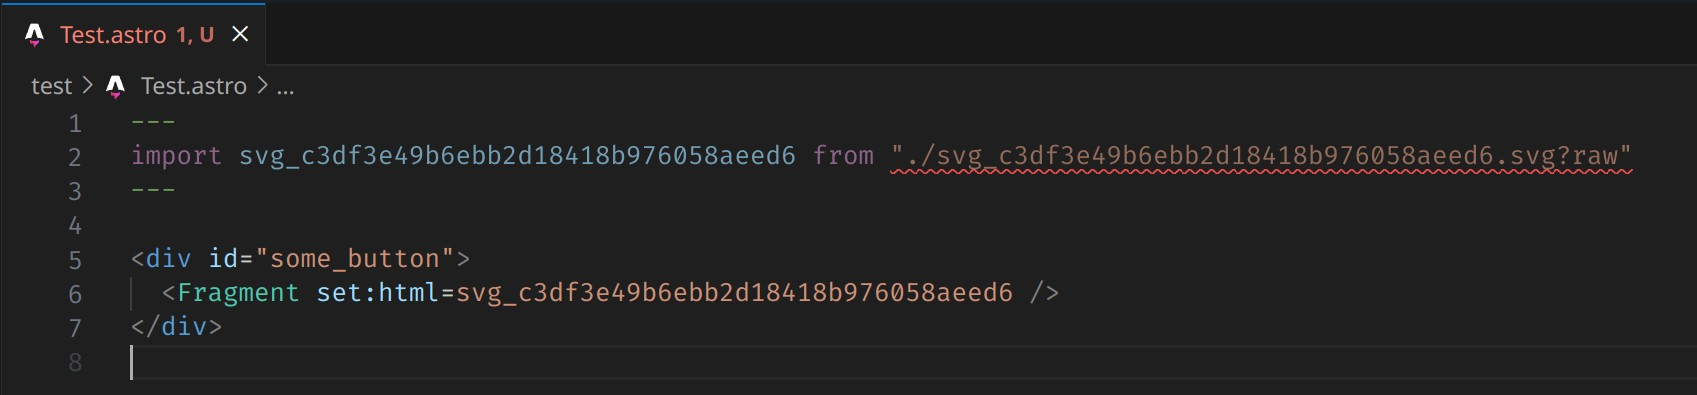
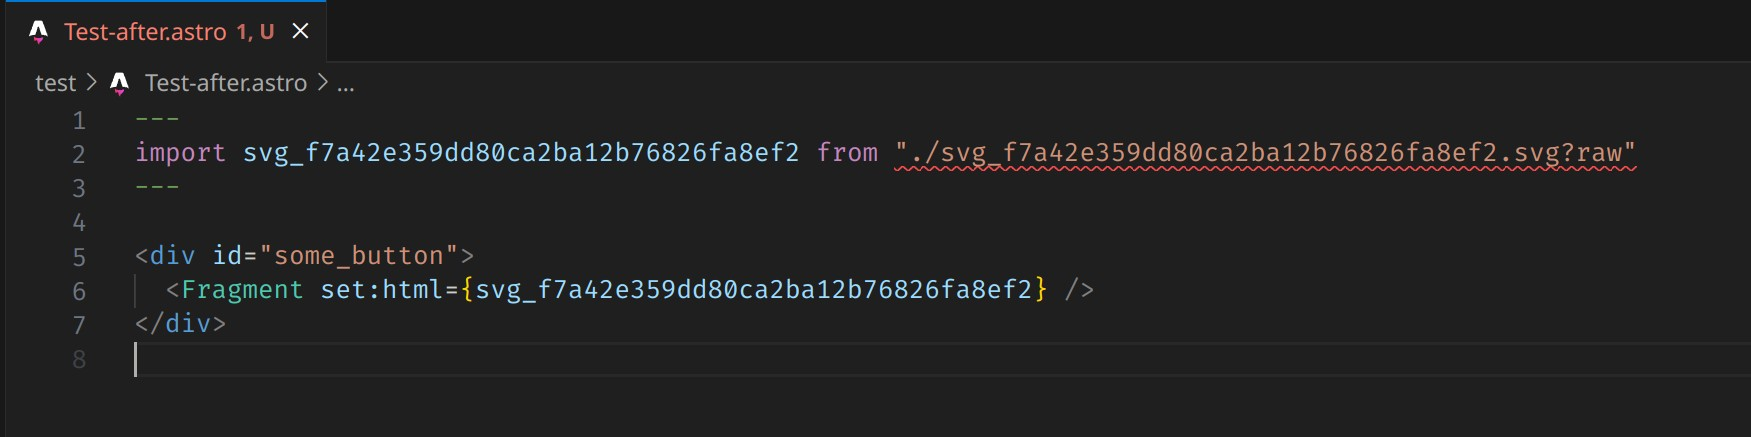
fix: fix svg insertion in Astro

diff --git a/src/extension.ts b/src/extension.ts
@@ -70,7 +70,7 @@ async function importExtractedSvg(selection: vscode.Selection, varEditor: vscode
           : 0
 
       edit.insert(new Position(line, 0), `import ${fileName} from "./${fileName}.svg?raw"\n`)
-      edit.insert(selection.start, `<Fragment set:html=${fileName} />\n`)
+      edit.insert(selection.start, `<Fragment set:html={${fileName}} />\n`)
     })
   } else {
     await varEditor.edit((edit) => {

diff --git a/README.md b/README.md
@@ -30,7 +30,7 @@ import svg_c3df3e49b6ebb2d18418b976058aeed6 from "./svg_c3df3e49b6ebb2d18418b976
 ---
 
 <div id="some_button">
-  <Fragment set:html=svg_c3df3e49b6ebb2d18418b976058aeed6 />
+  <Fragment set:html={svg_c3df3e49b6ebb2d18418b976058aeed6} />
 
 </div>
 
